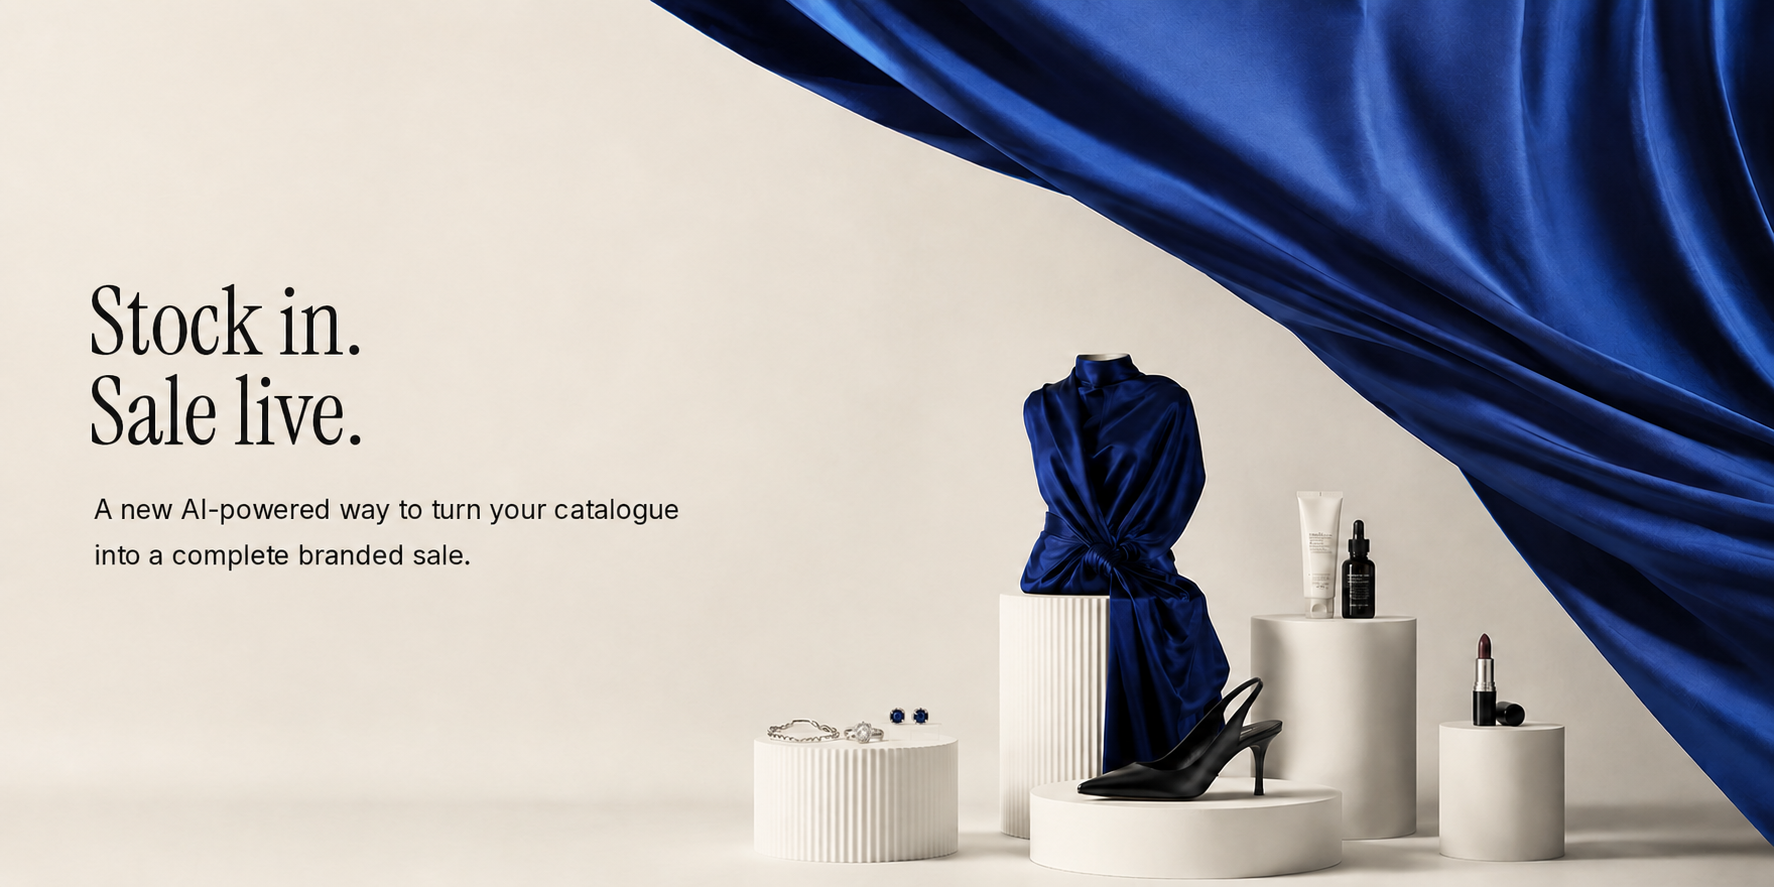
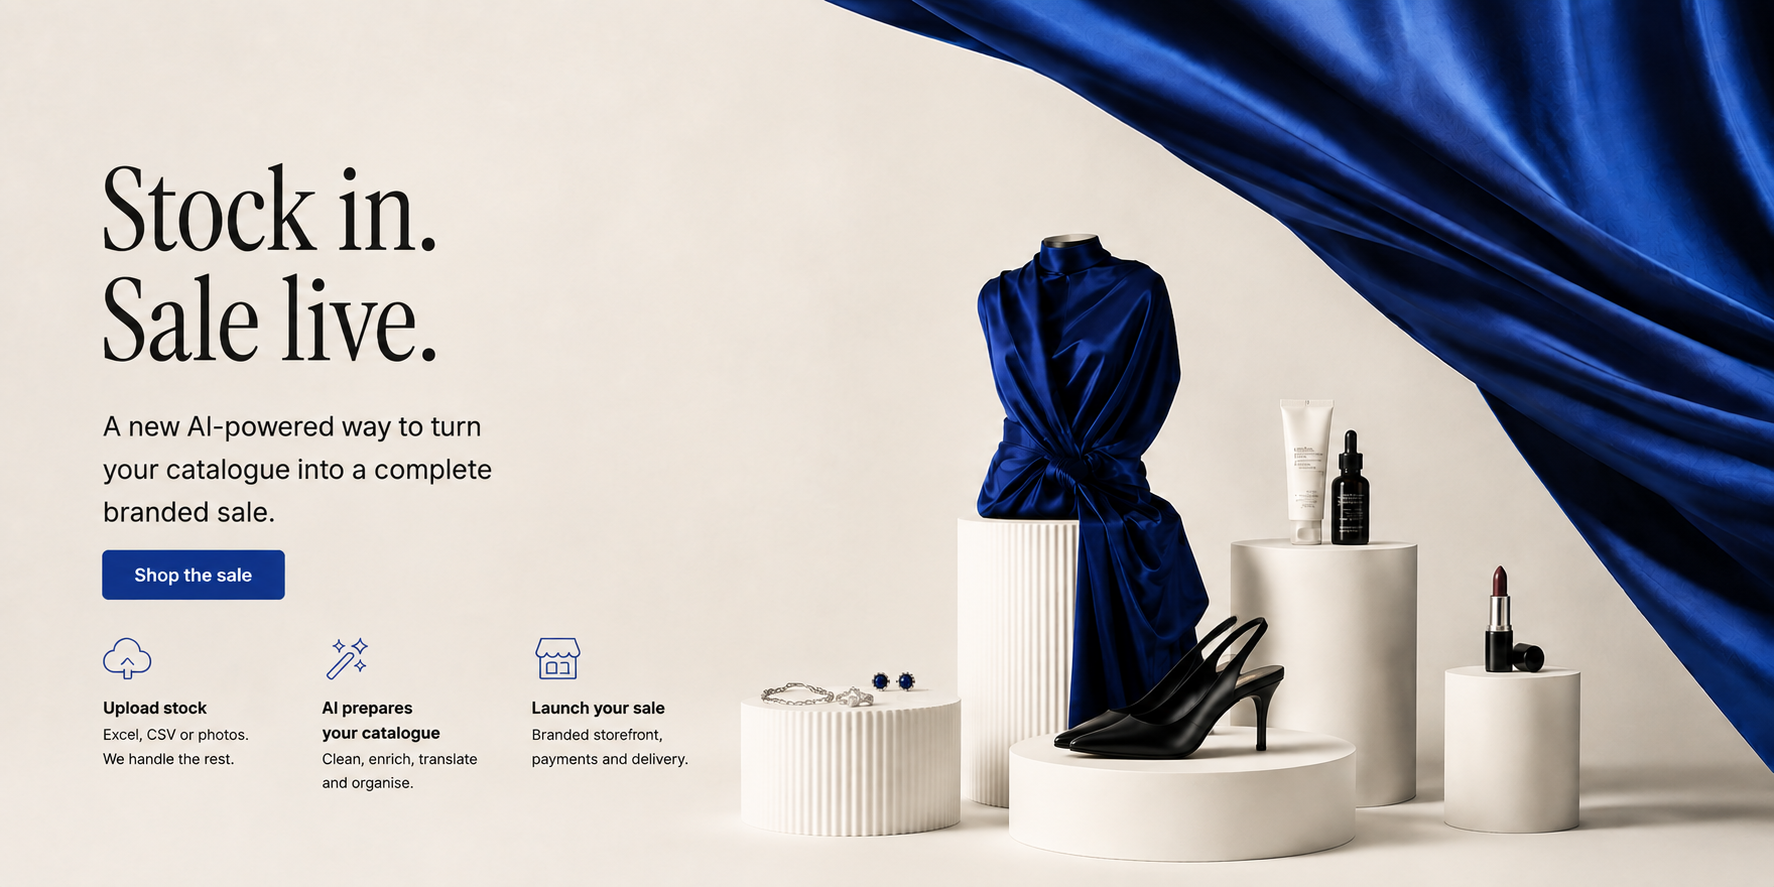
Storefront: swap in the improved desktop hero, drop duplicate CTA button
New hero (same 1774x887 dimensions) bakes in the "Shop the sale" button
and a 3-step explainer row. Our own HTML CTA was rendering a second,
overlapping button — turned it into an invisible click target
positioned over the baked-in button instead. Mobile keeps its own
visible pill since that asset doesn't have a baked-in CTA yet.

diff --git a/apps/storefront/src/App.tsx b/apps/storefront/src/App.tsx
@@ -163,8 +163,22 @@ function HomeView({ brand, products, onAddToBag }: { brand: Brand; products: Pro
            monitors; background fills any leftover side margin. */
         .hero-frame { aspect-ratio: 1774 / 887; max-width: 1600px; margin: 0 auto; }
         @media (max-width: 700px) { .hero-frame { aspect-ratio: 1149 / 1369; max-width: 100%; } }
-        .hero-shop-cta { bottom: 18%; }
-        @media (max-width: 700px) { .hero-shop-cta { bottom: 6%; } }
+
+        /* Desktop hero has "Shop the sale" baked into the image itself —
+           this is just an invisible clickable hotspot over that button,
+           positioned by percentage so it tracks the image at any width. */
+        .hero-shop-cta {
+          left: 5.6%; top: 62.6%; width: 10.4%; height: 4.5%;
+          background: transparent; color: transparent; font-size: 0; padding: 0; border-radius: 0;
+        }
+        /* Mobile hero doesn't have a baked-in button yet, so this stays a real visible pill. */
+        @media (max-width: 700px) {
+          .hero-shop-cta {
+            left: 4.5%; top: auto; bottom: 6%; width: auto; height: auto;
+            padding: 12px 24px; border-radius: 8px;
+            background: ${colors.navy}; color: ${colors.white}; font-size: 14px;
+          }
+        }
       `}</style>
       <section style={{ background: colors.background }}>
         <div className="hero-frame" style={styles.hero}>
@@ -580,13 +594,7 @@ const styles: Record<string, React.CSSProperties> = {
   heroCta: {
     position: "absolute",
     zIndex: 1,
-    left: "4.5%",
     display: "inline-block",
-    padding: "12px 24px",
-    borderRadius: 8,
-    background: colors.navy,
-    color: colors.white,
-    fontSize: 14,
     fontWeight: 600,
     textDecoration: "none",
   },
